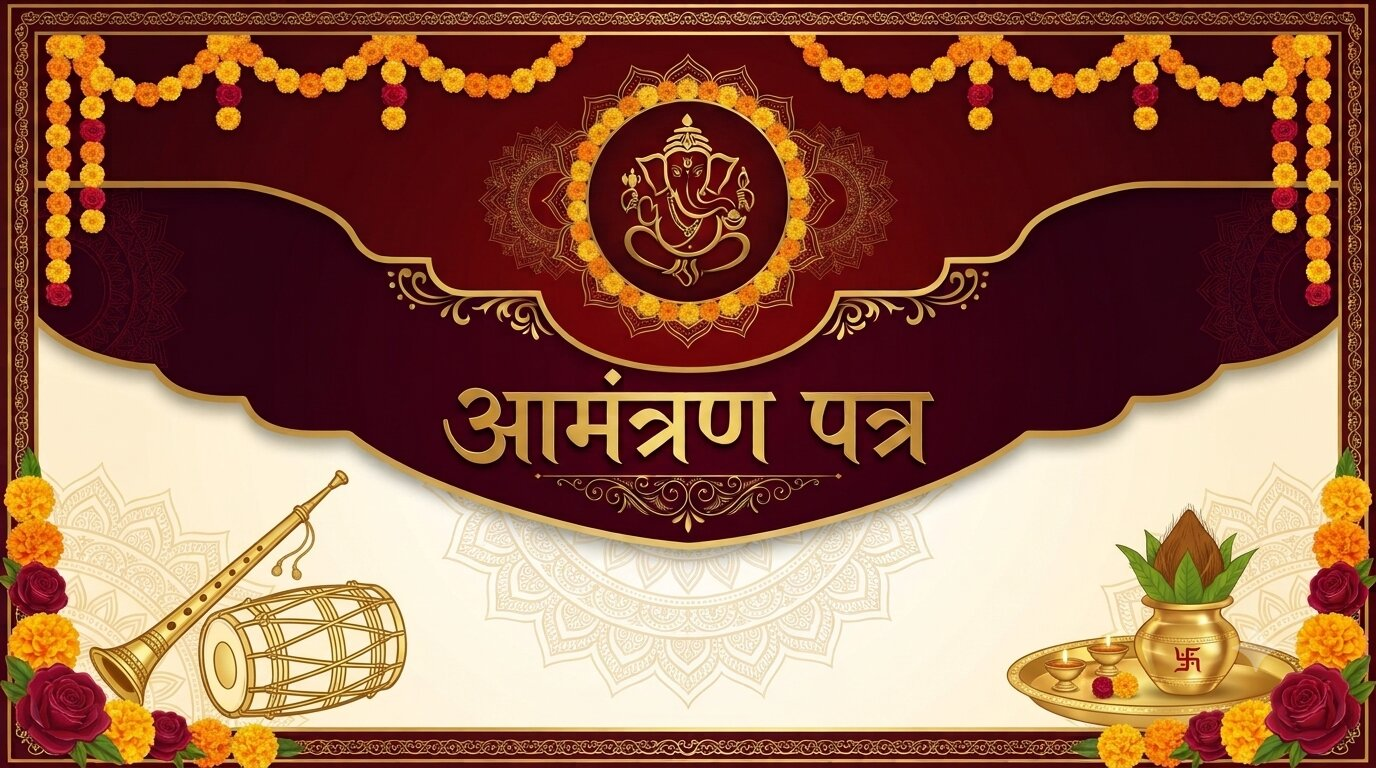
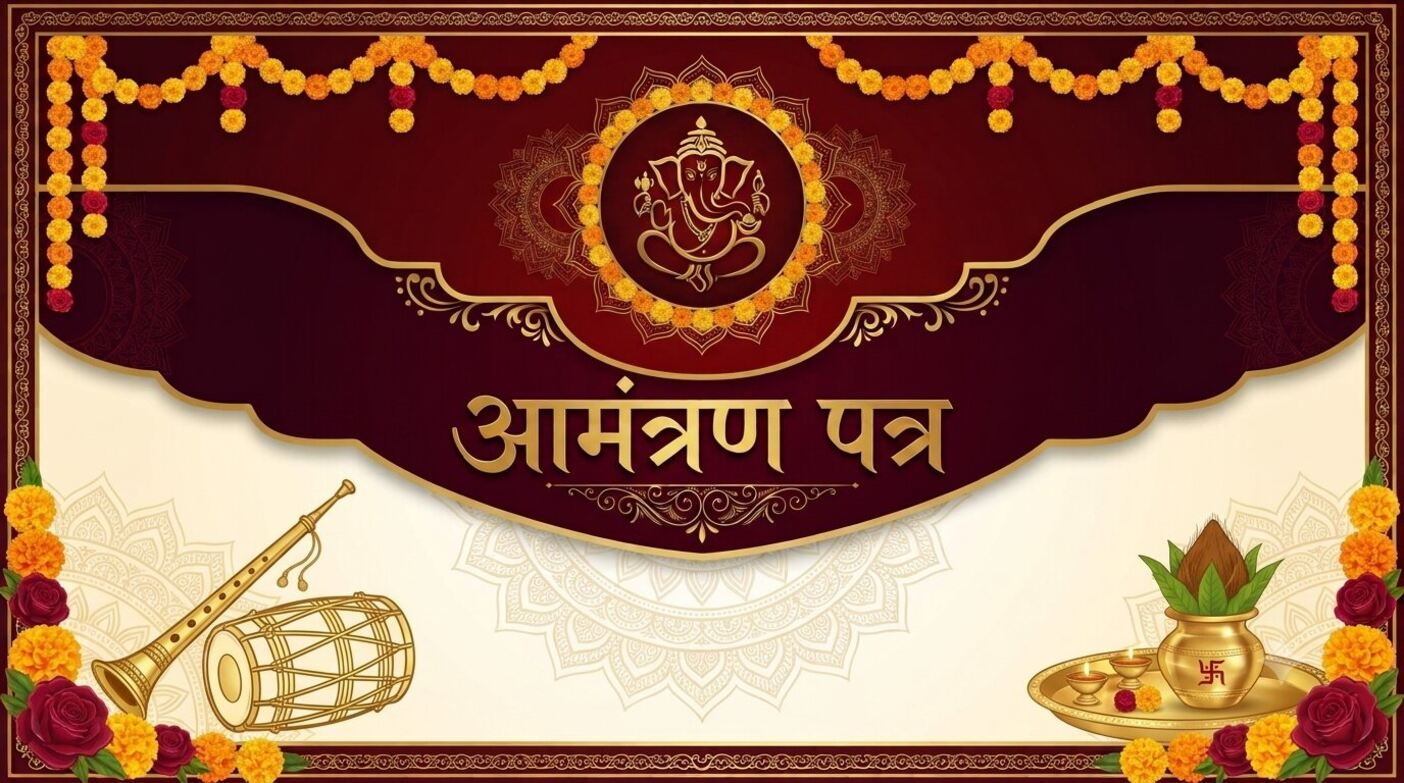
Added

diff --git a/index.html b/index.html
@@ -4,11 +4,11 @@
 <head>
   <meta charset="UTF-8" />
   <meta name="viewport" content="width=device-width, initial-scale=1.0" />
-  <meta name="author" content="anmol-gitk.github">
   <!-- WhatsApp / Social Link Preview Card (Open Graph) -->
   <meta property="og:type" content="website" />
   <meta property="og:url" content="https://anmol-gitk.github.io/Invitation-Card/" />
   <meta property="og:title" content="Shubh Nimantran — Digital Invitation" />
+  <meta name="author" content="Anmol" />
   <meta property="og:description"
     content="Aapke pyaar aur aashirwad ke saath, hamare is pavitra avsar par dil se aamantrit karte hain." />
   <meta property="og:image" content="https://anmol-gitk.github.io/Invitation-Card/preview.jpg" />
@@ -23,6 +23,9 @@
     content="Aapke pyaar aur aashirwad ke saath, hamare is pavitra avsar par dil se aamantrit karte hain." />
 
   <title>Shubh Nimantran — Digital Invitation</title>
+  <link rel="icon" type="image/png" sizes="192x192" href="https://anmol-gitk.github.io/Invitation-Card/preview.jpg" />
+  <link rel="apple-touch-icon" href="https://anmol-gitk.github.io/Invitation-Card/preview.jpg" />
+
   <link rel="preconnect" href="https://fonts.googleapis.com" />
   <link rel="preconnect" href="https://fonts.gstatic.com" crossorigin />
   <link
